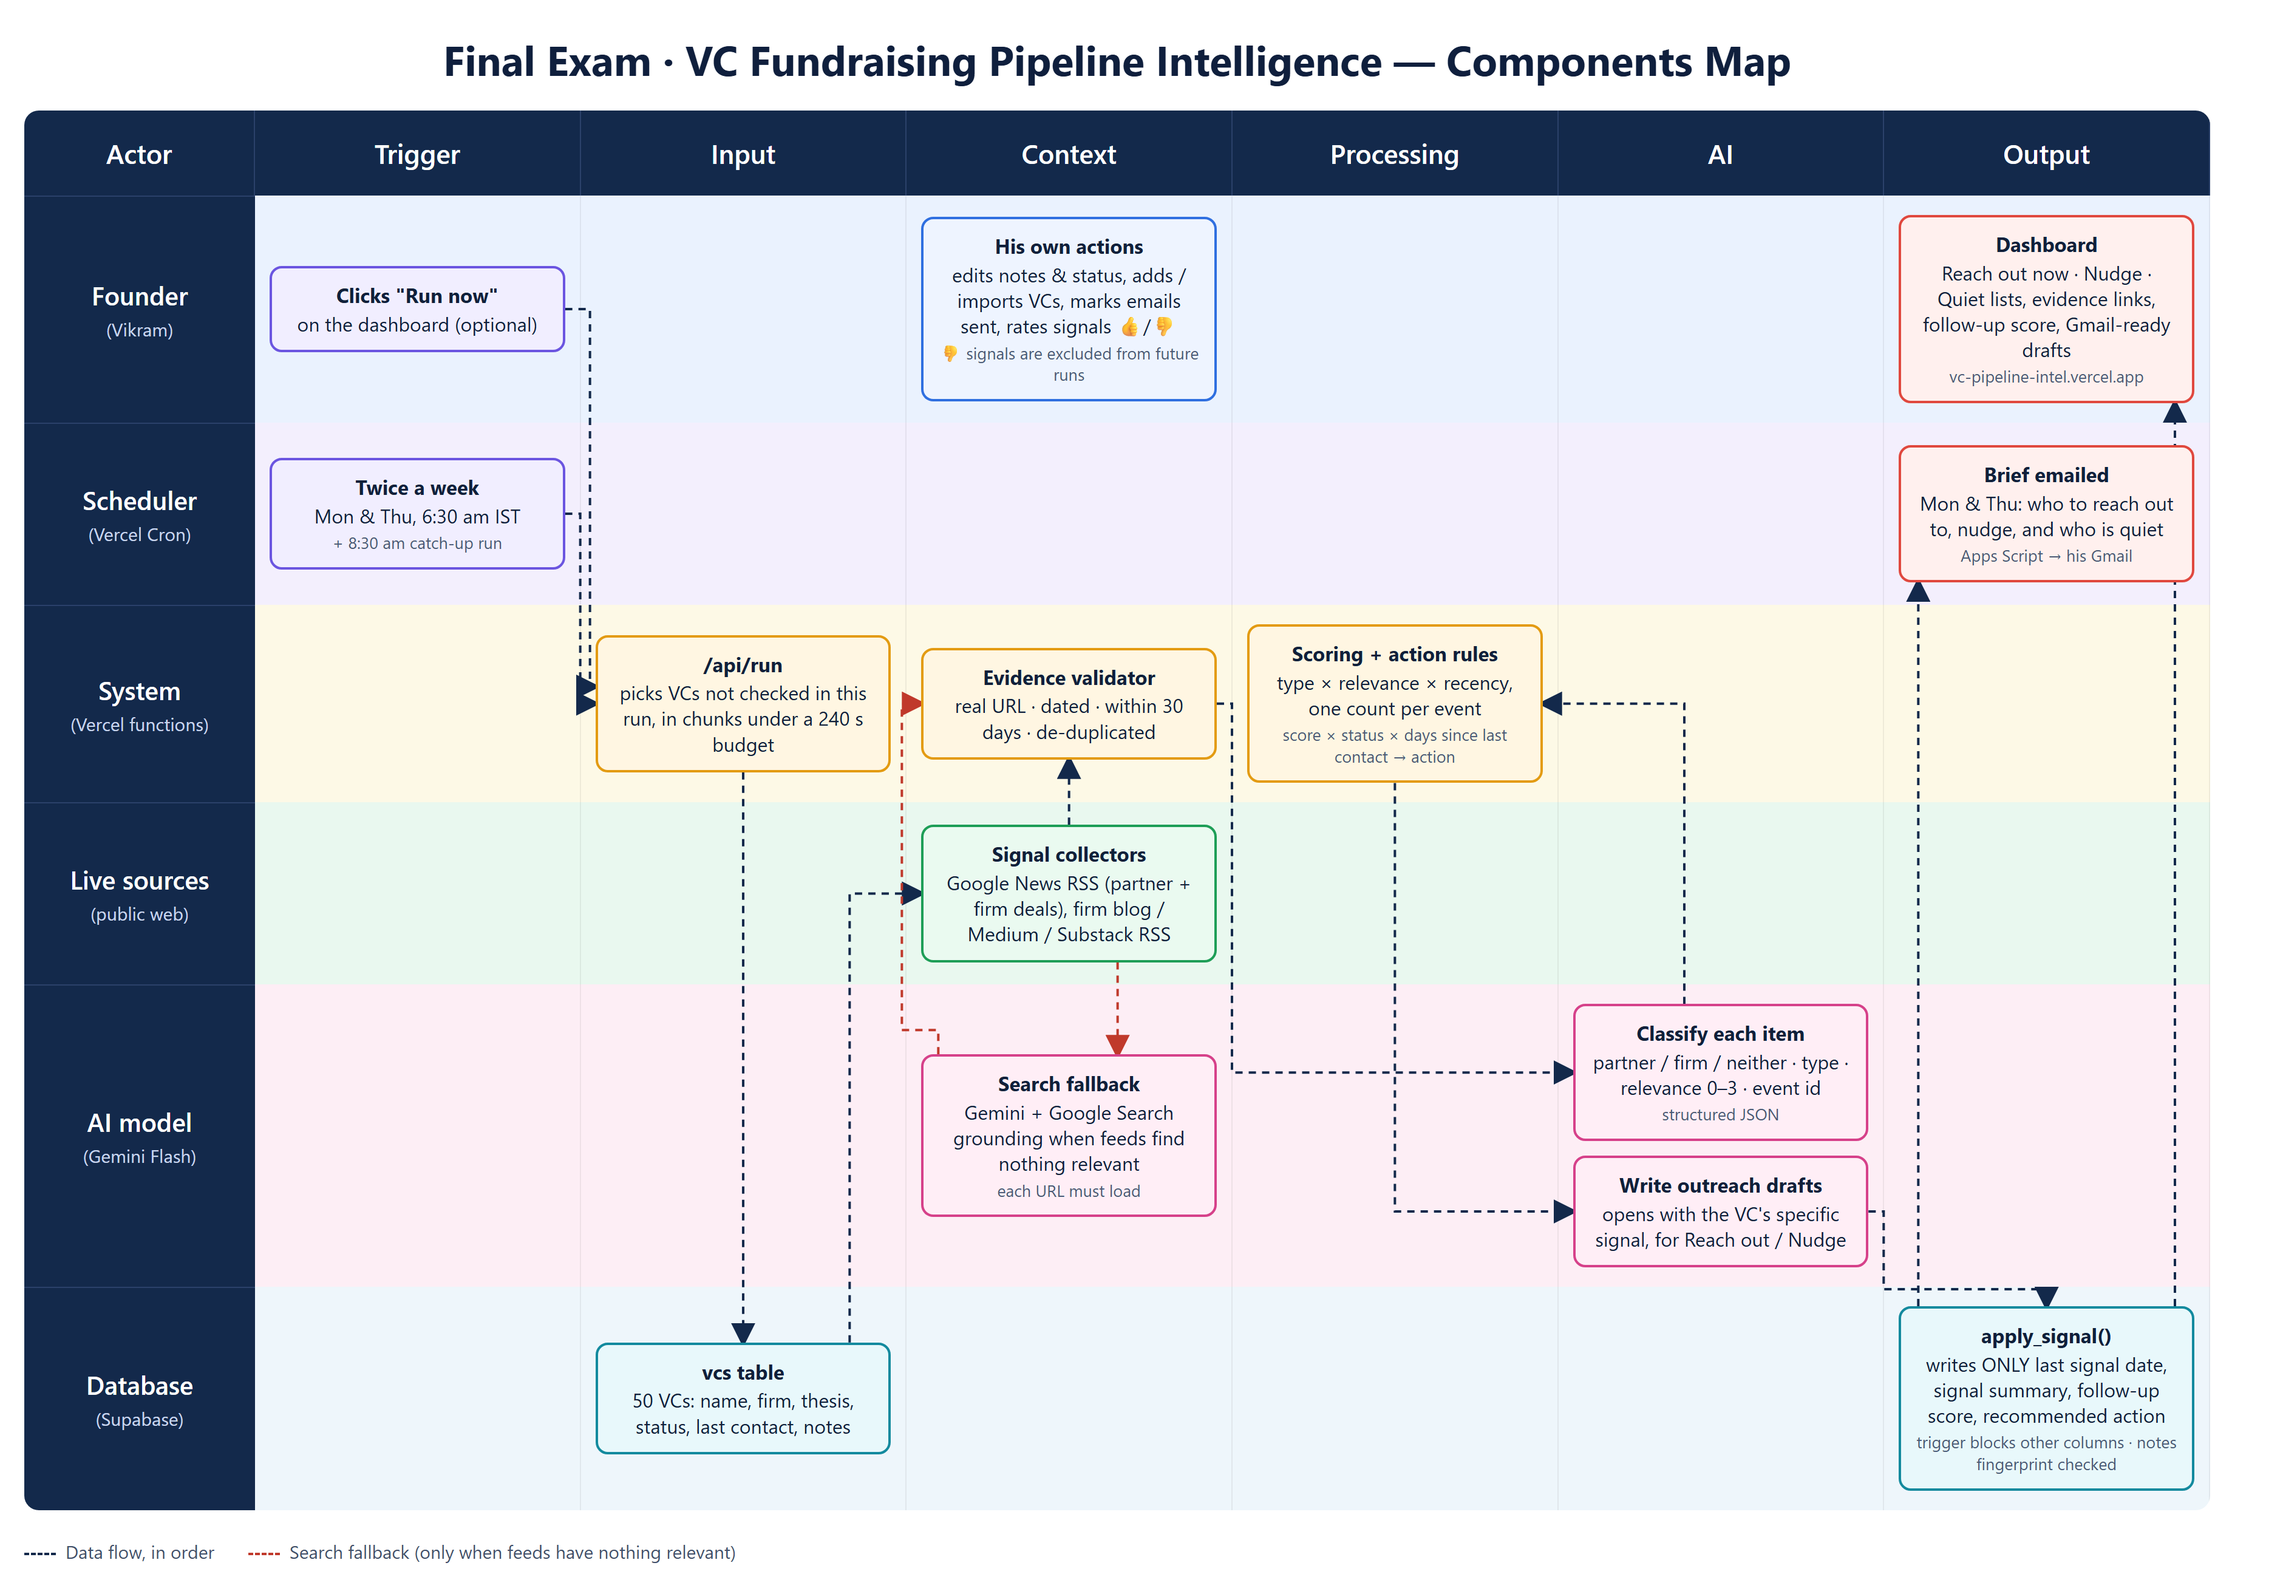
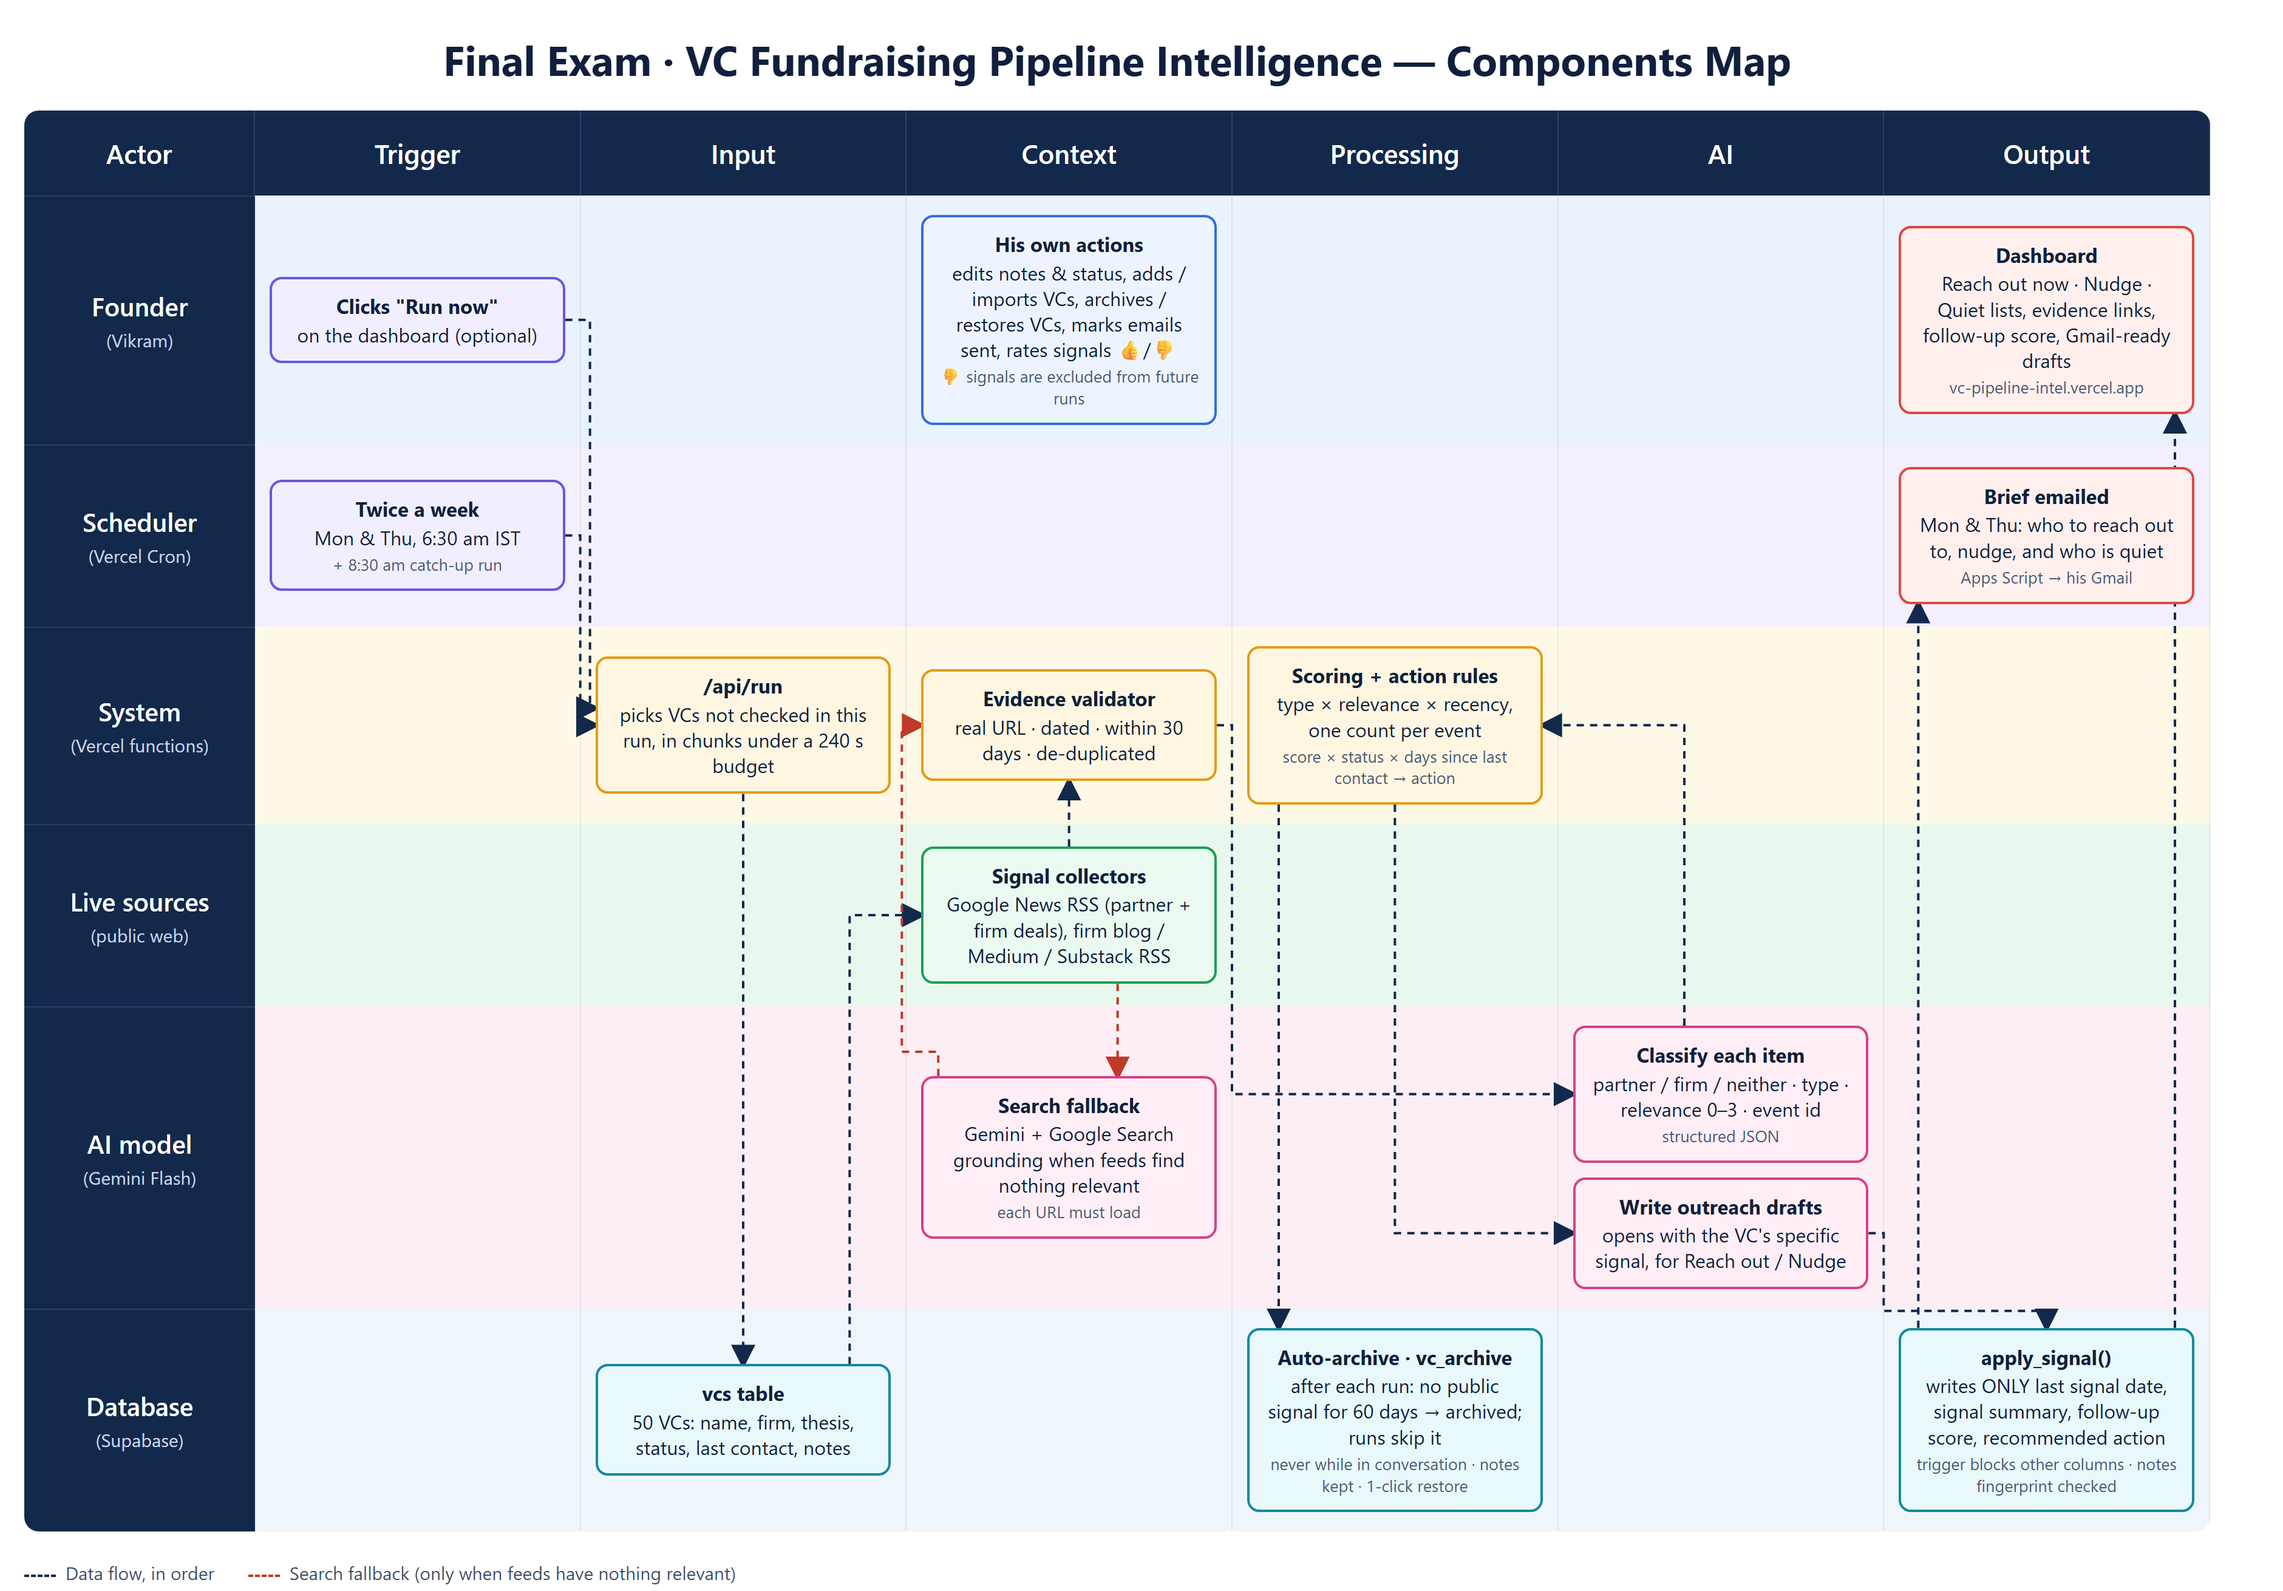
Components Map: add auto-archive and archive/restore actions

diff --git a/docs/components-map.html b/docs/components-map.html
@@ -36,7 +36,7 @@ svg.wires { position: absolute; inset: 0; width: 100%; height: 100%; z-index: 1;
   <div class="actor">Founder<small>(Vikram)</small></div>
   <div class="cell r1"><div class="box violet" id="manual"><b>Clicks "Run now"</b>on the dashboard (optional)</div></div>
   <div class="cell r1"></div>
-  <div class="cell r1"><div class="box blue" id="edit"><b>His own actions</b>edits notes &amp; status, adds / imports VCs, marks emails sent, rates signals 👍/👎<small>👎 signals are excluded from future runs</small></div></div>
+  <div class="cell r1"><div class="box blue" id="edit"><b>His own actions</b>edits notes &amp; status, adds / imports VCs, archives / restores VCs, marks emails sent, rates signals 👍/👎<small>👎 signals are excluded from future runs</small></div></div>
   <div class="cell r1"></div><div class="cell r1"></div>
   <div class="cell r1"><div class="box red" id="dash"><b>Dashboard</b>Reach out now · Nudge · Quiet lists, evidence links, follow-up score, Gmail-ready drafts<small>vc-pipeline-intel.vercel.app</small></div></div>
 
@@ -73,7 +73,9 @@ svg.wires { position: absolute; inset: 0; width: 100%; height: 100%; z-index: 1;
   <div class="actor">Database<small>(Supabase)</small></div>
   <div class="cell r6"></div>
   <div class="cell r6"><div class="box teal" id="db"><b>vcs table</b>50 VCs: name, firm, thesis, status, last contact, notes</div></div>
-  <div class="cell r6"></div><div class="cell r6"></div><div class="cell r6"></div>
+  <div class="cell r6"></div>
+  <div class="cell r6"><div class="box teal" id="arch"><b>Auto-archive · vc_archive</b>after each run: no public signal for 60 days → archived; runs skip it<small>never while in conversation · notes kept · 1-click restore</small></div></div>
+  <div class="cell r6"></div>
   <div class="cell r6"><div class="box teal" id="write"><b>apply_signal()</b>writes ONLY last signal date, signal summary, follow-up score, recommended action<small>trigger blocks other columns · notes fingerprint checked</small></div></div>
   <svg class="wires" id="w"><defs><marker id="a" markerWidth="10" markerHeight="10" refX="8" refY="5" orient="auto"><path d="M0,0 L10,5 L0,10 z" fill="#13294b"/></marker>
   <marker id="ar" markerWidth="10" markerHeight="10" refX="8" refY="5" orient="auto"><path d="M0,0 L10,5 L0,10 z" fill="#c0392b"/></marker></defs></svg>
@@ -101,6 +103,8 @@ wire([[src.cx, src.t], [src.cx, val.b]]);
 wire([[val.r, val.cy], [mx(val, score), val.cy], [mx(val, score), ai.cy], [ai.l, ai.cy]]);
 wire([[ai.cx - 30, ai.t], [ai.cx - 30, score.cy], [score.r, score.cy]]);
 wire([[score.cx, score.b], [score.cx, draft.cy], [draft.l, draft.cy]]);
+const arch = R('arch');
+wire([[score.l + 26, score.b], [score.l + 26, arch.t]]);
 wire([[draft.r, draft.cy], [mx(draft, write), draft.cy], [mx(draft, write), write.t - 14], [write.cx, write.t - 14], [write.cx, write.t]]);
 wire([[write.r - 16, write.t], [write.r - 16, dash.b]]);
 const mail = R('mail');
